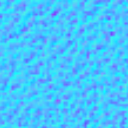
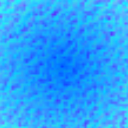
Water size

diff --git a/Assets/Water.cs b/Assets/Water.cs
@@ -14,22 +14,52 @@ public class Water : MonoBehaviour
     public Material mat;
     public float platformRadius;
 
-    private List<Wave> waves;
+    public int width; //squares on x axis
+    public int height;
 
+    public Vector2 areaSize;
+
+    public float forcePerVertex;
+
+
+    private Vector2 squareSize;
+    private List<Wave> waves;
     private float[] y;
 
-    private int width;
-    private int height;
-
     private float direction;
+
+    private float resetTimer;
+    private float resetTimerMax;
+    private float platResetDist;
+
+    public void SpawnWave(Vector2 position)
+    {
+        Wave w = new Wave();
+        w.center = position;
+        w.strength = 10.0f;
+        w.radius = 0.0f;
+        waves.Add(w);
+        Debug.Log("Wave Created");
+    }
+
+    public void Reset(float time)
+    {
+        resetTimer = time;
+        resetTimerMax = time;
+        GameObject plat = GameObject.FindGameObjectWithTag("Platform");
+        platResetDist = plat.transform.position.y - 3;
+    }
 
     // Use this for initialization
     void Start()
     {
-        waves = new List<Wave>();
+        GameObject plat = GameObject.FindGameObjectWithTag("Platform");
 
-        width =  122;
-        height = 122;
+        resetTimer = 0;
+
+        squareSize = new Vector2(areaSize.x / width, areaSize.y / height);
+
+        waves = new List<Wave>();
 
         y = new float[width * height];
 
@@ -43,10 +73,10 @@ public class Water : MonoBehaviour
             {
                 y[i * height + j] = 0.0f;
 
-                vertices[(i * width + j) * 4 + 0] = new Vector3(i - 0.5f, 0, j - 0.5f);
-                vertices[(i * width + j) * 4 + 1] = new Vector3(i - 0.5f, 0, j + 0.5f);
-                vertices[(i * width + j) * 4 + 2] = new Vector3(i + 0.5f, 0, j + 0.5f);
-                vertices[(i * width + j) * 4 + 3] = new Vector3(i + 0.5f, 0, j - 0.5f);
+                vertices[(i * width + j) * 4 + 0] = new Vector3((i - 0.5f)*squareSize.x, 0, (j - 0.5f) * squareSize.y);
+                vertices[(i * width + j) * 4 + 1] = new Vector3((i - 0.5f)*squareSize.x, 0, (j + 0.5f) * squareSize.y);
+                vertices[(i * width + j) * 4 + 2] = new Vector3((i + 0.5f)*squareSize.x, 0, (j + 0.5f) * squareSize.y);
+                vertices[(i * width + j) * 4 + 3] = new Vector3((i + 0.5f)*squareSize.x, 0, (j - 0.5f) * squareSize.y);
 
                 indices[i * width * 6 + j * 6 + 0] = (i * width + j) * 4 + 0;
                 indices[i * width * 6 + j * 6 + 1] = (i * width + j) * 4 + 1;
@@ -64,6 +94,9 @@ public class Water : MonoBehaviour
 
         gameObject.AddComponent<MeshFilter>().mesh = mesh;
         gameObject.AddComponent<MeshRenderer>().material = mat;
+
+        plat.transform.position = new Vector3(areaSize.x / 2, 3, areaSize.y / 2);
+        GameObject.Find("Sphere").transform.position = new Vector3(areaSize.x / 2, 10, areaSize.y / 2);
         //gameObject.AddComponent<MeshCollider>();
 
         //GameObject.FindGameObjectWithTag("Platform").GetComponent<Rigidbody>().
@@ -78,14 +111,14 @@ public class Water : MonoBehaviour
             for (int j = 0; j < height; j++)
             {
                 //check collisions
-                Vector3 vertex = new Vector3(i, y[i * height + j], j);
+                Vector3 vertex = new Vector3(i * squareSize.x, y[i * height + j], j * squareSize.y);
                 Vector3 n = plat.transform.up; //normal of the plane
                 float d = Vector3.Dot((plat.transform.position - vertex), n) / Vector3.Dot(new Vector3(0, 1, 0), n);
                 Vector3 collision = new Vector3(0, d, 0) + vertex;
                 Vector3 radius = plat.transform.position - collision;
                 if (d < 0 && radius.magnitude < platformRadius)
                 {
-                    plat.GetComponent<Rigidbody>().AddForceAtPosition(new Vector3(0, 1.1f, 0) * -d / 200.0f, collision);
+                    plat.GetComponent<Rigidbody>().AddForceAtPosition(new Vector3(0, 1.1f, 0) * -d * forcePerVertex, collision);
                 }
             }
         }
@@ -93,31 +126,41 @@ public class Water : MonoBehaviour
 
     void Update()
     {
-        float dt = Time.deltaTime * 2.0f;
+        float dt = Time.deltaTime;
+        GameObject plat = GameObject.FindGameObjectWithTag("Platform");
+
+        if (resetTimer > 0)
+        {
+            resetTimer -= dt;
+
+            plat.transform.position = new Vector3(areaSize.x / 2, platResetDist * (resetTimer / resetTimerMax) + 3, areaSize.y / 2);
+
+            if(resetTimer < 0)
+            {
+                for(int i = 0; i < width * height; i++)
+                {
+                    y[i] = 0;
+                }
+                waves.Clear();
+                return;
+            }
+        }
 
         direction += dt;
 
         if (Input.GetKeyDown(KeyCode.Space))
         {
-            Wave w = new Wave();
-            w.center = new Vector2(width / 2 + Mathf.Cos(direction) * (width / 2), height / 2 + Mathf.Sin(direction) * (width / 2));
-            w.strength = 10.0f;
-            w.radius = 0.0f;
-            waves.Add(w);
-            Debug.Log("Wave Created");
-
-            Wave w2 = new Wave();
-            w2.center = new Vector2(width / 2 + Mathf.Cos(direction + Mathf.PI / 2) * (width / 2), height / 2 + Mathf.Sin(direction + Mathf.PI / 2) * (width / 2));
-            w2.strength = 10.0f;
-            w2.radius = 0.0f;
-            waves.Add(w2);
-            Debug.Log("Wave2 Created");
+            float step = 3.14159265f * 2.0f / 5.0f / 10.0f;
+            for(int i = 0; i < 5; i++)
+            {
+                SpawnWave(new Vector2(width / 2 + Mathf.Cos(direction + (step * i)) * (width / 2), height / 2 + Mathf.Sin(direction + (step * i)) * (width / 2)));
+            }
         }
 
         for (int i = 0; i < waves.Count; i++)
         {
             Wave w = waves[i];
-            w.radius += dt * 4;
+            w.radius += dt * 8;
             waves[i] = w;
 
             if (waves[i].radius > width + width)
@@ -131,38 +174,28 @@ public class Water : MonoBehaviour
         {
             for(int j = 0; j < height; j++)
             {
-                y[i * height + j] = 0.0f;
-                foreach (Wave w in waves)
+                
+                if (resetTimer > 0)
                 {
-                    Vector2 delta = w.center - new Vector2(i, j); //delta
-                    float distance = delta.magnitude;//distance squared
-                    float distanceToCircle = Mathf.Abs(distance - w.radius);
-                    if (distanceToCircle < 4)
+                    y[i * height + j] *= (1.0f - dt);
+                }
+                else
+                {
+                    y[i * height + j] = 0.0f;
+
+                    foreach (Wave w in waves)
                     {
-                        y[i * height + j] += 4 - distanceToCircle;
+                        Vector2 delta = w.center - new Vector2(i, j); //delta
+                        float distance = delta.magnitude;
+                        float distanceToCircle = Mathf.Abs(distance - w.radius);
+                        if (distanceToCircle < 4)
+                        {
+                            y[i * height + j] += 4 - distanceToCircle;
+                        }
                     }
                 }
             }
         }
-
-        //GameObject[] cubes = GameObject.FindGameObjectsWithTag("Cube");
-        //foreach (GameObject cube in cubes)
-        //{
-        //    Vector3 pos = cube.transform.position;
-        //    foreach (Wave w in waves)
-        //    {
-        //        Vector2 delta = w.center - new Vector2(pos.x, pos.z); //delta
-        //        float distance = delta.magnitude;//distance squared
-        //        float distanceToCircle = Mathf.Abs(distance - w.radius);
-        //        if (distanceToCircle < 4)
-        //        {
-        //            y += 4 - distanceToCircle;
-        //        }
-        //    }
-        //    pos.y = y;
-        //    cube.transform.position = pos;
-        //}
-        GameObject plat = GameObject.FindGameObjectWithTag("Platform");
 
         Vector3[] vertices = new Vector3[width * height];
 
@@ -177,7 +210,7 @@ public class Water : MonoBehaviour
                 float y1 = y[i * height + j];
 
                 //check collisions
-                Vector3 vertex = new Vector3(i, y[i * height + j], j);
+                Vector3 vertex = new Vector3(i * squareSize.x, y[i * height + j], j * squareSize.y);
                 Vector3 n = plat.transform.up; //normal of the plane
                 float d = Vector3.Dot((plat.transform.position - vertex), n) / Vector3.Dot(new Vector3(0, 1, 0), n);
                 Vector3 collision = new Vector3(0, d, 0) + vertex;
@@ -191,7 +224,7 @@ public class Water : MonoBehaviour
                     }
                 }
 
-                vertices[i * width + j] = new Vector3(i - 0.5f, y1, j - 0.5f);
+                vertices[i * width + j] = new Vector3((i - 0.5f) * squareSize.x, y1, (j - 0.5f) * squareSize.y);
 
                 uvs[i * width + j] = new Vector2((float)i / width, (float)j / height);
             }

diff --git a/Assets/BallFalling.cs b/Assets/BallFalling.cs
@@ -1,0 +1,73 @@
+using UnityEngine;
+using System.Collections;
+
+public class BallFalling : MonoBehaviour {
+
+    int p1Points, p2Points;
+    float timer;
+
+	// Use this for initialization
+	void Start () {
+        p1Points = 0;
+        p2Points = 0;
+
+        timer = 0;
+    }
+	
+	// Update is called once per frame
+	void Update () {
+        if(timer > 0)
+        {
+            timer -= Time.deltaTime;
+            if (timer < 0)
+            {
+                Respawn();
+            }
+            else
+                return;
+        }
+
+        if (transform.position.y < -5.0f)
+        {
+            if(transform.position.z > 61)
+            {
+                p1Points++;
+                timer = 3.0f;
+                GameObject.Find("Water").GetComponent<Water>().Reset(3.0f);
+                Debug.Log("P1 points:" + p1Points);
+                if (p1Points > 5)
+                {
+                    //p1 win
+                    Debug.Log("P1 Win");
+                }
+            }
+            else
+            {
+                p2Points++;
+                timer = 3.0f;
+                GameObject.Find("Water").GetComponent<Water>().Reset(3.0f);
+                Debug.Log("P2 points:" + p2Points);
+                if (p2Points > 5)
+                {
+                    //p2 win
+                    Debug.Log("P2 Win");
+                }
+            }
+        }
+	}
+    void Respawn()
+    {
+        Water water = GameObject.Find("Water").GetComponent<Water>();
+        float x = water.areaSize.x / 2;
+        float y = water.areaSize.y / 2;
+
+        transform.position = new Vector3(x, 20, y);
+        GetComponent<Rigidbody>().velocity = new Vector3(0, 0, 0);
+        GetComponent<Rigidbody>().angularVelocity = new Vector3();
+        GameObject plat = GameObject.FindGameObjectWithTag("Platform");
+        plat.transform.eulerAngles = new Vector3(0, 0, 0);
+        plat.transform.position = new Vector3(x, 3, y);
+        plat.GetComponent<Rigidbody>().velocity = new Vector3();
+        plat.GetComponent<Rigidbody>().angularVelocity = new Vector3();
+    }
+}

diff --git a/Assets/GameSettings.cs b/Assets/GameSettings.cs
@@ -1,0 +1,15 @@
+using UnityEngine;
+using System.Collections;
+
+public class GameSettings : MonoBehaviour {
+
+	// Use this for initialization
+	void Start () {
+        Application.targetFrameRate = 60;
+	}
+	
+	// Update is called once per frame
+	void Update () {
+	
+	}
+}
